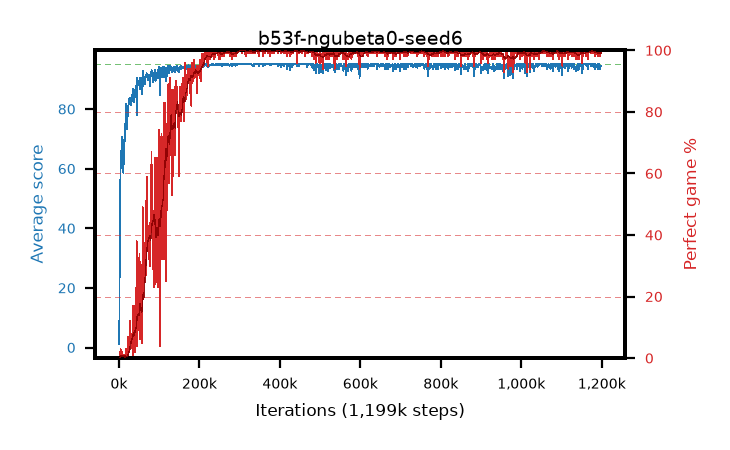
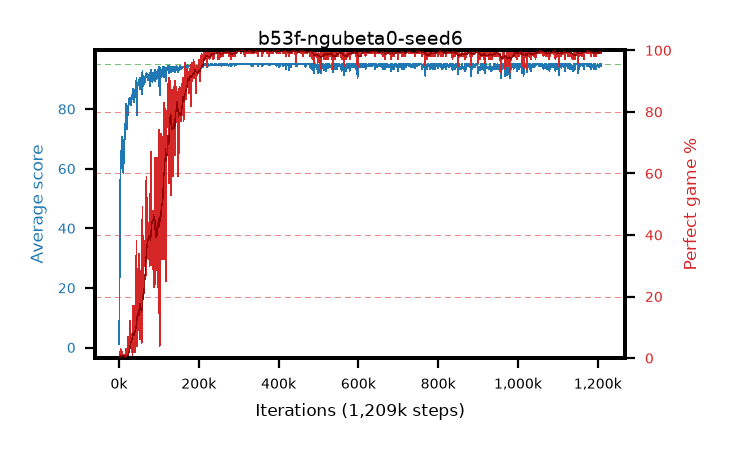
live pictures of 4 arm(s)

diff --git a/results/b53f-ngubeta0-seed6/b53f-ngubeta0-seed6.md b/results/b53f-ngubeta0-seed6/b53f-ngubeta0-seed6.md
@@ -1,6 +1,6 @@
 # b53f-ngubeta0-seed6
 
-step **1,199,000** · 1199 evals · trailing **94.54** · peak **94.99** @323,000 · sef **88.7** · best30 **99.8** @323,000
+step **1,209,000** · 1209 evals · trailing **94.52** · peak **94.99** @323,000 · sef **88.8** · best30 **99.8** @323,000
 
 ## Config
 
@@ -80,15 +80,15 @@ step **1,199,000** · 1199 evals · trailing **94.54** · peak **94.99** @323,00
 | 2000 | 35.17 | 18.16 | 10.0 | 67.0 | 29.965 | 0.0 | 0.4 |
 | 3000 | 47.63 | 27.98 | 1.0 | 93.0 | 42.642 | 0.0 | 0.4 |
 | ... | ... | ... | ... | ... | ... | ... | ... |
-| 1188000 | 94.43 | 94.69 | 38.0 | 95.0 | 192.176 | 99.0 | 0.4 |
-| 1189000 | 94.3 | 94.67 | 25.0 | 95.0 | 192.049 | 99.0 | 0.4 |
-| 1190000 | 93.49 | 94.62 | 19.0 | 95.0 | 190.205 | 98.0 | 0.4 |
-| 1191000 | 95.0 | 94.63 | 95.0 | 95.0 | 193.79 | 100.0 | 0.4 |
-| 1192000 | 94.3 | 94.61 | 25.0 | 95.0 | 192.049 | 99.0 | 0.4 |
-| 1193000 | 95.0 | 94.61 | 95.0 | 95.0 | 193.791 | 100.0 | 0.4 |
-| 1194000 | 95.0 | 94.64 | 95.0 | 95.0 | 193.781 | 100.0 | 0.4 |
-| 1195000 | 93.46 | 94.58 | 10.0 | 95.0 | 190.17 | 98.0 | 0.4 |
-| 1196000 | 94.27 | 94.61 | 22.0 | 95.0 | 192.018 | 99.0 | 0.4 |
-| 1197000 | 94.33 | 94.59 | 28.0 | 95.0 | 192.079 | 99.0 | 0.4 |
 | 1198000 | 94.31 | 94.56 | 26.0 | 95.0 | 192.064 | 99.0 | 0.4 |
 | 1199000 | 94.28 | 94.54 | 23.0 | 95.0 | 192.017 | 99.0 | 0.4 |
+| 1200000 | 95.0 | 94.54 | 95.0 | 95.0 | 193.781 | 100.0 | 0.4 |
+| 1201000 | 94.29 | 94.52 | 24.0 | 95.0 | 192.034 | 99.0 | 0.4 |
+| 1202000 | 94.28 | 94.49 | 23.0 | 95.0 | 192.024 | 99.0 | 0.4 |
+| 1203000 | 94.23 | 94.47 | 18.0 | 95.0 | 191.981 | 99.0 | 0.4 |
+| 1204000 | 94.28 | 94.47 | 23.0 | 95.0 | 192.028 | 99.0 | 0.4 |
+| 1205000 | 95.0 | 94.47 | 95.0 | 95.0 | 193.786 | 100.0 | 0.4 |
+| 1206000 | 95.0 | 94.47 | 95.0 | 95.0 | 193.78 | 100.0 | 0.4 |
+| 1207000 | 94.28 | 94.47 | 23.0 | 95.0 | 192.026 | 99.0 | 0.4 |
+| 1208000 | 95.0 | 94.49 | 95.0 | 95.0 | 193.785 | 100.0 | 0.4 |
+| 1209000 | 95.0 | 94.52 | 95.0 | 95.0 | 193.783 | 100.0 | 0.4 |

diff --git a/results/b53h-ngubeta0-seed8/b53h-ngubeta0-seed8.md b/results/b53h-ngubeta0-seed8/b53h-ngubeta0-seed8.md
@@ -1,6 +1,6 @@
 # b53h-ngubeta0-seed8
 
-step **1,219,000** · 1219 evals · trailing **94.46** · peak **94.92** @356,000 · sef **92.3** · best30 **99.7** @539,000
+step **1,229,000** · 1229 evals · trailing **94.59** · peak **94.92** @356,000 · sef **92.4** · best30 **99.7** @539,000
 
 ## Config
 
@@ -80,15 +80,15 @@ step **1,219,000** · 1219 evals · trailing **94.46** · peak **94.92** @356,00
 | 2000 | 50.19 | 26.7 | 2.0 | 95.0 | 51.185 | 6.0 | 0.4 |
 | 3000 | 57.71 | 37.03 | 27.0 | 95.0 | 54.481 | 2.0 | 0.4 |
 | ... | ... | ... | ... | ... | ... | ... | ... |
-| 1208000 | 95.0 | 94.39 | 95.0 | 95.0 | 193.787 | 100.0 | 0.4 |
-| 1209000 | 94.28 | 94.37 | 23.0 | 95.0 | 192.022 | 99.0 | 0.4 |
-| 1210000 | 94.27 | 94.39 | 22.0 | 95.0 | 192.018 | 99.0 | 0.4 |
-| 1211000 | 95.0 | 94.42 | 95.0 | 95.0 | 193.782 | 100.0 | 0.4 |
-| 1212000 | 94.23 | 94.39 | 18.0 | 95.0 | 191.977 | 99.0 | 0.4 |
-| 1213000 | 95.0 | 94.39 | 95.0 | 95.0 | 193.784 | 100.0 | 0.4 |
-| 1214000 | 94.97 | 94.42 | 92.0 | 95.0 | 192.759 | 99.0 | 0.4 |
-| 1215000 | 95.0 | 94.44 | 95.0 | 95.0 | 193.781 | 100.0 | 0.4 |
-| 1216000 | 94.24 | 94.41 | 36.0 | 95.0 | 190.939 | 98.0 | 0.4 |
-| 1217000 | 94.9 | 94.42 | 86.0 | 95.0 | 191.591 | 98.0 | 0.4 |
 | 1218000 | 94.26 | 94.42 | 21.0 | 95.0 | 192.006 | 99.0 | 0.4 |
 | 1219000 | 95.0 | 94.46 | 95.0 | 95.0 | 193.779 | 100.0 | 0.4 |
+| 1220000 | 94.83 | 94.54 | 81.0 | 95.0 | 191.604 | 98.0 | 0.4 |
+| 1221000 | 95.0 | 94.54 | 95.0 | 95.0 | 193.778 | 100.0 | 0.4 |
+| 1222000 | 94.36 | 94.54 | 31.0 | 95.0 | 192.105 | 99.0 | 0.4 |
+| 1223000 | 95.0 | 94.57 | 95.0 | 95.0 | 193.78 | 100.0 | 0.4 |
+| 1224000 | 94.26 | 94.54 | 30.0 | 95.0 | 190.96 | 98.0 | 0.4 |
+| 1225000 | 94.25 | 94.54 | 20.0 | 95.0 | 191.984 | 99.0 | 0.4 |
+| 1226000 | 95.0 | 94.6 | 95.0 | 95.0 | 193.776 | 100.0 | 0.4 |
+| 1227000 | 94.85 | 94.59 | 80.0 | 95.0 | 192.584 | 99.0 | 0.4 |
+| 1228000 | 95.0 | 94.62 | 95.0 | 95.0 | 193.77 | 100.0 | 0.4 |
+| 1229000 | 94.26 | 94.59 | 21.0 | 95.0 | 192.0 | 99.0 | 0.4 |
